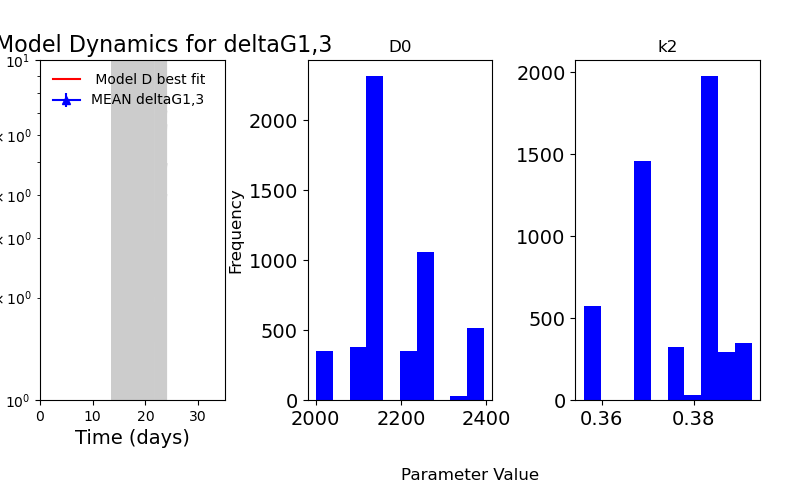
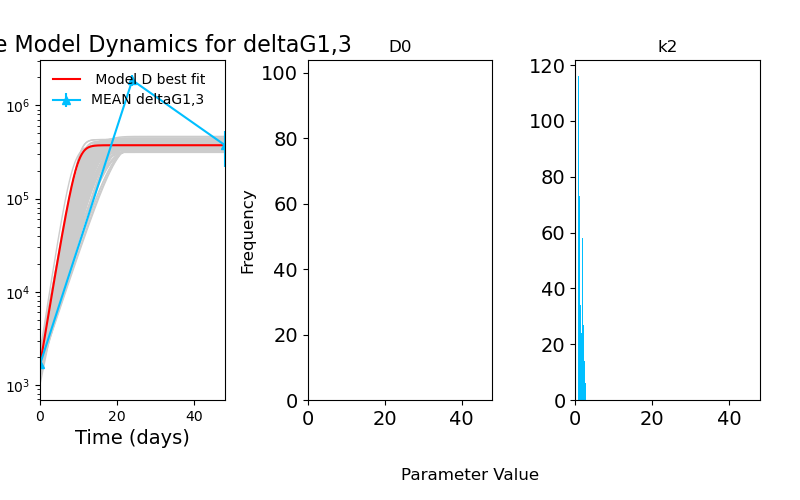
cat

diff --git a/src/model_cat_muts_ace_vibrio.py b/src/model_cat_muts_ace_vibrio.py
@@ -37,7 +37,7 @@ df_all = df_aceMHM
 #df_all = pd.read_csv("../data/BCC_1-31-dataset.csv",header=1)
 df_all.drop(df_all.columns[df_all.columns.str.contains('unnamed',case = False)],axis = 1, inplace = True)
 df_all = df_all.rename({'Time(hrs)':'time'}, axis=1)    #'renaming column to make it callable by 'times'
-df_a = df_all.loc[df_all['id'].str.contains('abiotic', case=False)].copy()  
+#df_a = df_all.loc[df_all['id'].str.contains('abiotic', case=False)].copy()  
 
 df = df_all
 
@@ -53,18 +53,22 @@ df['log_sigma'] = df[['log1','log2', 'log3']].std(axis=1)
 df['log_sigma'] = 0.2
 df.loc[df['organism'] == 'H', 'log_sigma'] = 0.08
 
-df = df[df['id'] =='CatMutsNoC_growth'] #set id of assay we are fitting
-
-df0 = df.loc[(df['treatment(nM)']==0)]  #assay 0 H 
-df15 = df.loc[(df['treatment(nM)']==1500)] #assay of spiked HOOH
-
-dfw = df0   #setting working df
 
 
-Ss = df['strain'].unique()
+
+df0 = df[df['id'] =='Stationary_MHMacetate_1500nMspike'] #set id of assay we are fitting
+df15 = df[df['id'] =='Stationary_MHMacetate_0nMspike']
+#df0 = df.loc[(df['treatment(nM)']==0)]  #assay 0 H 
+#df15 = df.loc[(df['treatment(nM)']==1500)] #assay of spiked HOOH
+
+#dfw = df15   #setting working df
+dfw = df15
+
+Ss = dfw['strain'].unique()
 nSs = Ss.shape[0]
-colors = ['k','lawngreen','forestgreen','seagreen','dodgerblue','deepskyblue','b','violet','fucshia','mediumpurple','yellow','orange']
+colors = ['k','lawngreen','forestgreen','seagreen','dodgerblue','deepskyblue','b','violet','pink','mediumpurple','yellow','orange']
 
+#time 25 is actually 24hrsbut had to up to 25 for data set splicing 
 
 for (s,ns) in zip( Ss,range(nSs)):
     
@@ -78,7 +82,7 @@ for (s,ns) in zip( Ss,range(nSs)):
     df = dfw[dfw['strain']==s]  #slicing working df by strain (different mutants) 
 
     ## Reading in inits files for 0 and 400 models respectively
-    inits0 = pd.read_csv("../data/inits/MHMace_inits0.csv")
+    inits0 = pd.read_csv('../data/inits/MHMace_'+str(s)+'_inits0.csv')
 
 
     #####################################################
@@ -139,7 +143,7 @@ for (s,ns) in zip( Ss,range(nSs)):
     
     
     # nits - INCREASE FOR MORE BELL CURVEY LOOKING HISTS
-    nits = 10000
+    nits = 1000
     
     
     #####################################
@@ -190,7 +194,7 @@ for (s,ns) in zip( Ss,range(nSs)):
     
     ax0.plot(mod0.time,mod0['D'],c='r',lw=1.5,label=' model best fit')
     
-    a0.plot_uncertainty(ax0,posteriors0,'D',1000)
+    a0.plot_uncertainty(ax0,posteriors0,'D',100)
     
     ax1.scatter(a0res['res'], a0res['abundance'],color = c0,label = '0H case')
     
@@ -261,14 +265,14 @@ for (s,ns) in zip( Ss,range(nSs)):
     ax3[1].scatter(posteriors0.iteration,(posteriors0.k2),color = c0)
     
     #print out plot
-    fig3.savefig('../figures/MHMnoC_'+s+'0_TRACE')
+    fig3.savefig('../figures/MHMace_'+s+'0_TRACE')
     
     
     plt.show()
     
 
     pframe0 = pd.DataFrame(a0.get_parameters(),columns=a0.get_pnames())
-    pframe0.to_csv("../data/inits/MHMnoC_inits0.csv")
+    pframe0.to_csv('../data/inits/MHMace_'+str(s)+'_inits0.csv')
 
 
 
@@ -281,7 +285,7 @@ for (s,ns) in zip( Ss,range(nSs)):
 
 
 
-
+'''
 
 
 inits15 = pd.read_csv("../data/inits/MHMace_inits1500.csv")
@@ -355,7 +359,7 @@ def mono_4H(y,t,params): #no kdam or phi here (or make 0)
 # Create and Run model on 0 and 400 df
 #####################################
 
-a15 = get_model(df15) 
+a15 = get_model(dfw) 
 
 posteriors15 = a15.MCMC(chain_inits=inits15,iterations_per_chain=nits,cpu_cores=1,print_report=True) #, )
 
@@ -388,7 +392,7 @@ ax4[2].set_ylabel('Frequency')
 ax4[2].set_xlabel('Parameter Value (Logged)')
 
 
-'''
+
 #format fig  
 ax3[0].set_title(S +' dynamics') #graph title for graph 1
 ax3[0].semilogy() #setting y axis to be logged b/c cell data
@@ -412,7 +416,7 @@ ax1.errorbar(df15[df15['organism']=='H']['time'],df15[df15['organism']=='H']['ab
 ax3[2].scatter(a0res['res'], a0res['abundance'],label = '0 H', color = c0) #where )
 
 
-'''
+
 
 
 
@@ -487,7 +491,7 @@ pframe15.to_csv("../data/inits/MHMace_inits1500.csv")
 #vibrio modeling
 ##############################
 
-
+'''
 
 
 # 'program finished' flag
